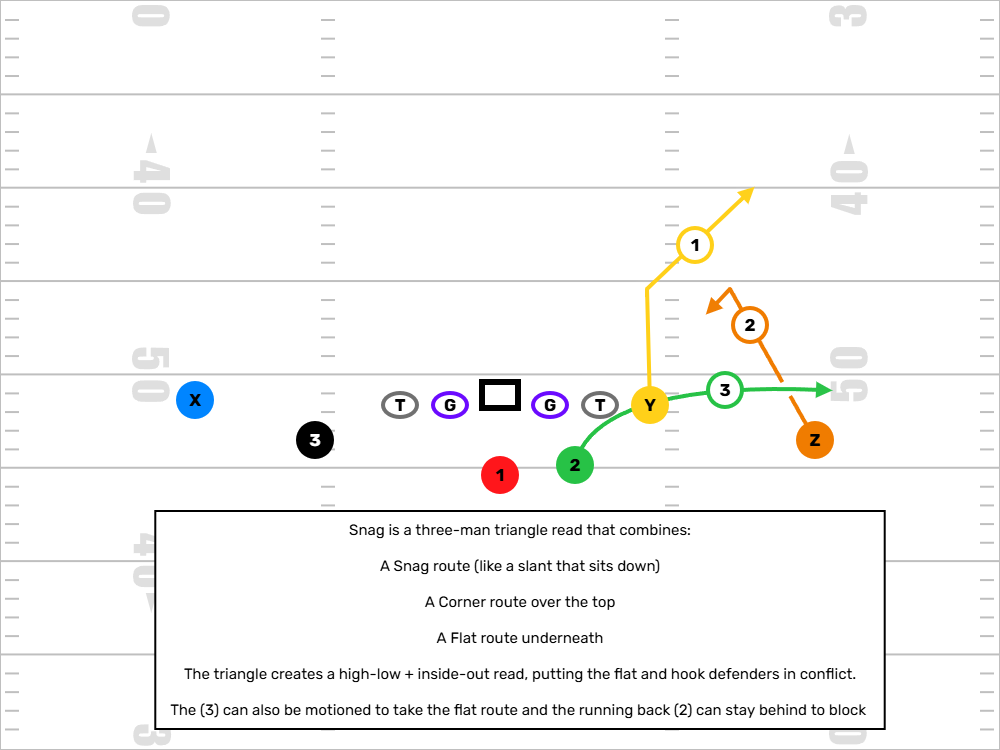
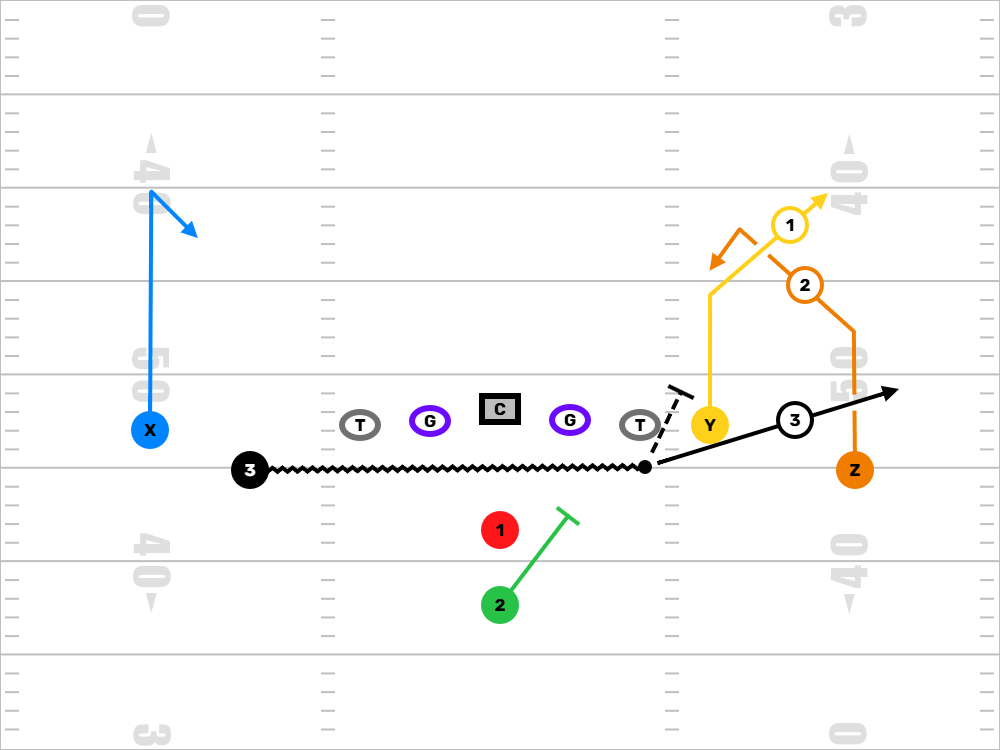
Added snag

diff --git a/website/pages/football_101/offense/passingConcepts.html b/website/pages/football_101/offense/passingConcepts.html
@@ -42,6 +42,60 @@
             <div class="passing-concepts-container">
                 <div class="passing-concept-card">
                     <div class="concept-diagram-placeholder">
+                        <img src="../../../images/snag.png" alt="snag Passing Concept Diagram" style="max-width: 100%; height: auto; border-radius: 8px;" />
+                    </div>
+                <h3>Snag</h3>
+                <div class="concept-description">
+                    <p><strong>Overview:</strong> Snag is one of our favorite quick-game triangle concepts because it puts stress on flat defenders and gives your quarterback answers versus both man and zone. It’s great from 2x2, 3x1, or motioning into trips — and it’s easy to teach at the youth level with clearly defined roles for each receiver.</p>
+                    <p><strong>How It Works:</strong> The concept creates a triangle read. The outside receiver runs a corner route — he’s stretching the coverage vertically. The inside receiver runs a snag or "spot" route — he pushes inside at about 4–5 yards, then settles in a soft spot. The back or third receiver runs an arrow route to the flat. Together, these three routes stress a single defender who's trying to cover too much ground.</p>
+                    <p><strong>Quarterback Read:</strong> We use the R4 system. Think of it like this:
+                        <ul>
+                            <li><strong>Rhythm:</strong> Corner route — hit it if the defense doesn’t sink.</li>
+                            <li><strong>Read:</strong> Spot/Snag — if the corner is covered and the spot defender gets depth, come back underneath.</li>
+                            <li><strong>Rush:</strong> Flat/Arrow — if pressure comes or nobody else is open, dump it off.</li>
+                        </ul>
+                        At the youth level, we tell our QB to pick a side before the snap and read that triangle — corner, spot, flat. Quick decisions, simple execution.
+                    </p>
+                    <p><strong>Why We Use It:</strong> It creates natural spacing and gives the QB built-in answers no matter the coverage. Against man, the snag route can pick defenders. Against zone, the triangle spacing stretches the flat defender and opens up easy throws. It’s a great way to teach your young QB how to progress and understand leverage.</p>
+                </div>
+
+                <div class="passing-concept-card">
+                    <div class="concept-diagram-placeholder">
+                        <img src="../../../images/stick.png" alt="Stick Concept Diagram" style="max-width: 100%; height: auto; border-radius: 8px;" />
+                    </div>                    
+                    <h3>Stick</h3>
+                    <div class="concept-description">
+                        <p><strong>Overview:</strong> Stick is a quick game concept built around reading the flat defender and taking what he gives you. It’s a safe, timing-based play that develops QB decision-making.</p>
+                        <p><strong>How It Works:</strong> Outside WR runs a go or fade to clear. Slot WR runs a stick route—6-yard speed out, sometimes with an option to sit. Back motions to the flat to widen the defense. Backside has a climb or post curl.</p>
+                        <p><strong>Quarterback Read:</strong> Read the flat defender (OLB). If he sits on the stick, throw to the back. If he chases the back, hit the stick. If both are covered, scan backside to the climb.</p>
+                        <p><strong>Why We Use It:</strong> Easy reads, fast release, and quick yards. Teaches WRs to work routes off leverage and QBs to trust timing. At the youth level, it builds quick decision confidence.</p>
+                    </div>
+                </div>
+                
+                <div class="passing-concept-card">
+                    <div class="concept-diagram-placeholder">
+                        <img src="../../../images/smashAndDagger.png" alt="Smash and Dagger Concept Diagram" style="max-width: 100%; height: auto; border-radius: 8px;" />
+                    </div>                    
+                    <h3>Smash & Dagger</h3>
+                    <div class="concept-description">
+                        <p><strong>Overview:</strong> Smash and Dagger work beautifully together as a mirrored full-field concept. Smash attacks the sideline and puts the cornerback in conflict. Dagger hits the heart of the defense — working the middle with a deep dig behind a clear-out. Together, they create a layered progression for the quarterback and force zone defenders to defend every inch of the field.</p>
+
+                        <p><strong>How Smash Works:</strong> On the front side, you’ve got Smash — the outside receiver runs a 5-yard hitch or curl, and the inside receiver runs a corner route, breaking out at 10–12 yards. This high-lows the cornerback: if he sinks, hit the hitch; if he drives, throw the corner. It's quick, it's clean, and it teaches great decision-making at the youth level.</p>
+
+                        <p><strong>How Dagger Works:</strong> On the backside, Dagger starts with the outside receiver running a clear-out go route to occupy the safety. The slot or inside receiver runs a hard dig at 10–12 yards. This route flashes right in the QB’s line of sight after the Smash side is read. It’s a killer versus Cover 2 and Cover 3 when linebackers widen to flats or hesitate underneath.</p>
+
+                        <p><strong>Quarterback Read:</strong> At the youth level, we don’t ask our quarterbacks to scan the entire field. Instead, we install this as a half-field read. Before the snap, we’ll tell the QB which side we’re working — Smash or Dagger. If it’s Smash, he keys the cornerback: if the corner sinks, throw the hitch; if the corner drives, hit the corner route over the top. If it’s Dagger, his eyes go to the dig — if the linebackers clear out, let it rip. Keep it simple, fast, and confident. One side, one decision, execute.</p>
+
+                        <p><strong>Why We Use It:</strong> This combo lets us stretch the defense vertically and horizontally on both sides. Smash gives us easy completions and forces corners to cover the flat and deep zone. Dagger lets us punish safeties and backers who overplay the Smash side. At the youth level, it teaches your QB to read one side, reset, and throw with confidence — while teaching your receivers how to create and find space.</p>
+
+                        <p><strong>Coaching Tip:</strong> If you're working with a young quarterback, don’t be afraid to tag Smash to just one side of the field early on. As they grow, you can layer in Dagger as the full-field read and teach them to manipulate defenders with their eyes and timing.</p>
+
+                        <p><strong>Bonus — Running Back Release:</strong> If the running back isn't needed for protection or there's no blitz threat, we love to tag him into the play side as a third option. He can release into the flat or swing out late, adding another layer to the Smash side read. Now, instead of just a high-low on the corner, you’re stressing the flat defender as well — turning a 2-man concept into a 3-man triangle that puts stress on every coverage rule. At the youth level, it’s a great way to get the ball to your back in space if the defense overcommits to covering routes downfield.</p>
+                    </div>
+                </div>
+
+                <div class="passing-concept-card">
+                    <div class="concept-diagram-placeholder">
                         <img src="../../../images/mesh.png" alt="Mesh Passing Concept Diagram" style="max-width: 100%; height: auto; border-radius: 8px;" />
                     </div>
                     <h3>Mesh</h3>
@@ -87,28 +141,6 @@
 
                 <div class="passing-concept-card">
                     <div class="concept-diagram-placeholder">
-                        <img src="../../../images/smashAndDagger.png" alt="Smash and Dagger Concept Diagram" style="max-width: 100%; height: auto; border-radius: 8px;" />
-                    </div>                    
-                    <h3>Smash & Dagger</h3>
-                    <div class="concept-description">
-                        <p><strong>Overview:</strong> Smash and Dagger work beautifully together as a mirrored full-field concept. Smash attacks the sideline and puts the cornerback in conflict. Dagger hits the heart of the defense — working the middle with a deep dig behind a clear-out. Together, they create a layered progression for the quarterback and force zone defenders to defend every inch of the field.</p>
-
-                        <p><strong>How Smash Works:</strong> On the front side, you’ve got Smash — the outside receiver runs a 5-yard hitch or curl, and the inside receiver runs a corner route, breaking out at 10–12 yards. This high-lows the cornerback: if he sinks, hit the hitch; if he drives, throw the corner. It's quick, it's clean, and it teaches great decision-making at the youth level.</p>
-
-                        <p><strong>How Dagger Works:</strong> On the backside, Dagger starts with the outside receiver running a clear-out go route to occupy the safety. The slot or inside receiver runs a hard dig at 10–12 yards. This route flashes right in the QB’s line of sight after the Smash side is read. It’s a killer versus Cover 2 and Cover 3 when linebackers widen to flats or hesitate underneath.</p>
-
-                        <p><strong>Quarterback Read:</strong> At the youth level, we don’t ask our quarterbacks to scan the entire field. Instead, we install this as a half-field read. Before the snap, we’ll tell the QB which side we’re working — Smash or Dagger. If it’s Smash, he keys the cornerback: if the corner sinks, throw the hitch; if the corner drives, hit the corner route over the top. If it’s Dagger, his eyes go to the dig — if the linebackers clear out, let it rip. Keep it simple, fast, and confident. One side, one decision, execute.</p>
-
-                        <p><strong>Why We Use It:</strong> This combo lets us stretch the defense vertically and horizontally on both sides. Smash gives us easy completions and forces corners to cover the flat and deep zone. Dagger lets us punish safeties and backers who overplay the Smash side. At the youth level, it teaches your QB to read one side, reset, and throw with confidence — while teaching your receivers how to create and find space.</p>
-
-                        <p><strong>Coaching Tip:</strong> If you're working with a young quarterback, don’t be afraid to tag Smash to just one side of the field early on. As they grow, you can layer in Dagger as the full-field read and teach them to manipulate defenders with their eyes and timing.</p>
-
-                        <p><strong>Bonus — Running Back Release:</strong> If the running back isn't needed for protection or there's no blitz threat, we love to tag him into the play side as a third option. He can release into the flat or swing out late, adding another layer to the Smash side read. Now, instead of just a high-low on the corner, you’re stressing the flat defender as well — turning a 2-man concept into a 3-man triangle that puts stress on every coverage rule. At the youth level, it’s a great way to get the ball to your back in space if the defense overcommits to covering routes downfield.</p>
-                    </div>
-                </div>
-
-                <div class="passing-concept-card">
-                    <div class="concept-diagram-placeholder">
                         <img src="../../../images/yCross.png" alt="Y-Cross Concept Diagram" style="max-width: 100%; height: auto; border-radius: 8px;" />
                     </div>                    
                     <h3>Y-Cross</h3>
@@ -130,19 +162,6 @@
                         <p><strong>How It Works:</strong> All four eligible receivers release on vertical stems. Inside guys can bend their routes slightly to get open or find space versus Cover 2 or 3. Backs leak out as checkdowns.</p>
                         <p><strong>Quarterback Read:</strong> Key the safeties. If middle is open, hit the seam. If safeties widen, look down the middle. If nothing’s open, hit the checkdown or take off.</p>
                         <p><strong>Why We Use It:</strong> It opens up huge chunks of the field. Even if we don’t throw deep, it forces the defense to respect vertical threats, which opens up underneath game.</p>
-                    </div>
-                </div>
-
-                <div class="passing-concept-card">
-                    <div class="concept-diagram-placeholder">
-                        <img src="../../../images/stick.png" alt="Stick Concept Diagram" style="max-width: 100%; height: auto; border-radius: 8px;" />
-                    </div>                    
-                    <h3>Stick</h3>
-                    <div class="concept-description">
-                        <p><strong>Overview:</strong> Stick is a quick game concept built around reading the flat defender and taking what he gives you. It’s a safe, timing-based play that develops QB decision-making.</p>
-                        <p><strong>How It Works:</strong> Outside WR runs a go or fade to clear. Slot WR runs a stick route—6-yard speed out, sometimes with an option to sit. Back motions to the flat to widen the defense. Backside has a climb or post curl.</p>
-                        <p><strong>Quarterback Read:</strong> Read the flat defender (OLB). If he sits on the stick, throw to the back. If he chases the back, hit the stick. If both are covered, scan backside to the climb.</p>
-                        <p><strong>Why We Use It:</strong> Easy reads, fast release, and quick yards. Teaches WRs to work routes off leverage and QBs to trust timing. At the youth level, it builds quick decision confidence.</p>
                     </div>
                 </div>
 

diff --git a/myNotes.md b/myNotes.md
@@ -146,6 +146,7 @@ This file lives in the repo only. Not part of the public site.
 
 ## Resources:
 ### Football 101
+[vIQtory - Passing Concepts Explained for Youth Football Coaches](https://youtu.be/a3ypxBpLnx8?si=17MwRUtbb6iTgUMZ)
 [Every Passing Concept Explained in 13 Minutes](https://youtu.be/Ebn6c1jNZbo?si=wqL4avamMq9eRNhb)
 [Every Defensive Formation Explained in 12 Minutes](https://youtu.be/Q6iuu58jLgU?si=fgLrJIUs2tgH-JXE)
 [Every Defensive Coverage Explained in 15 Minutes](https://youtu.be/ROliJ27Br9A?si=B3roHj1Zbx4FGjTe)
